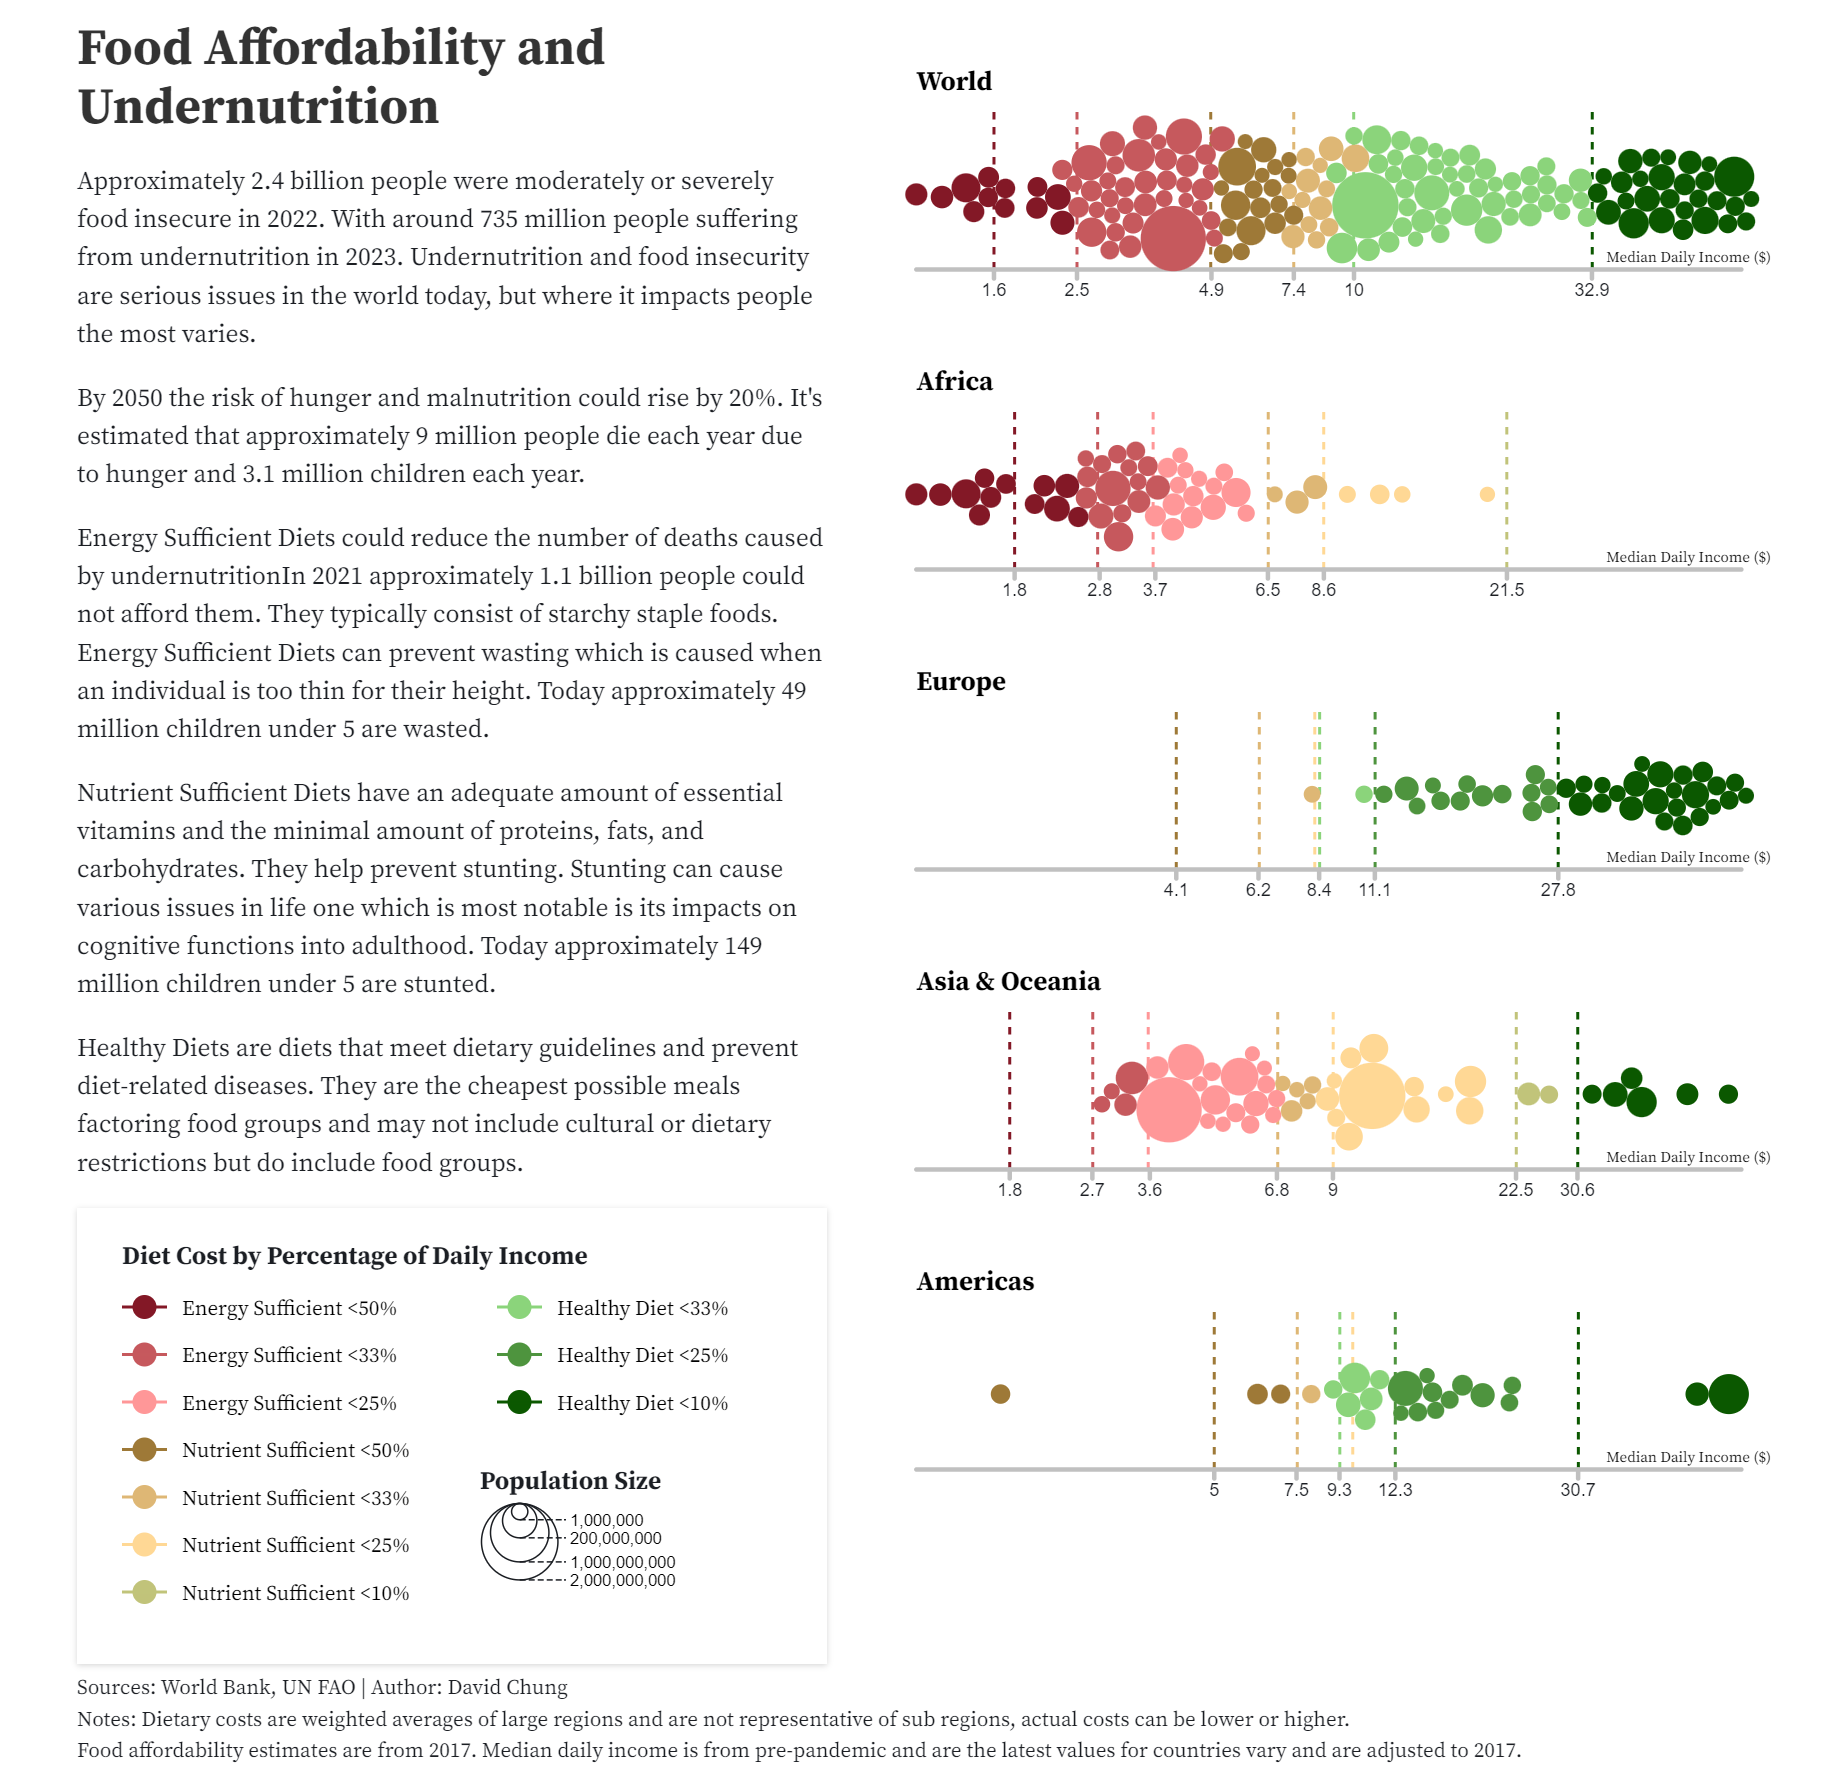
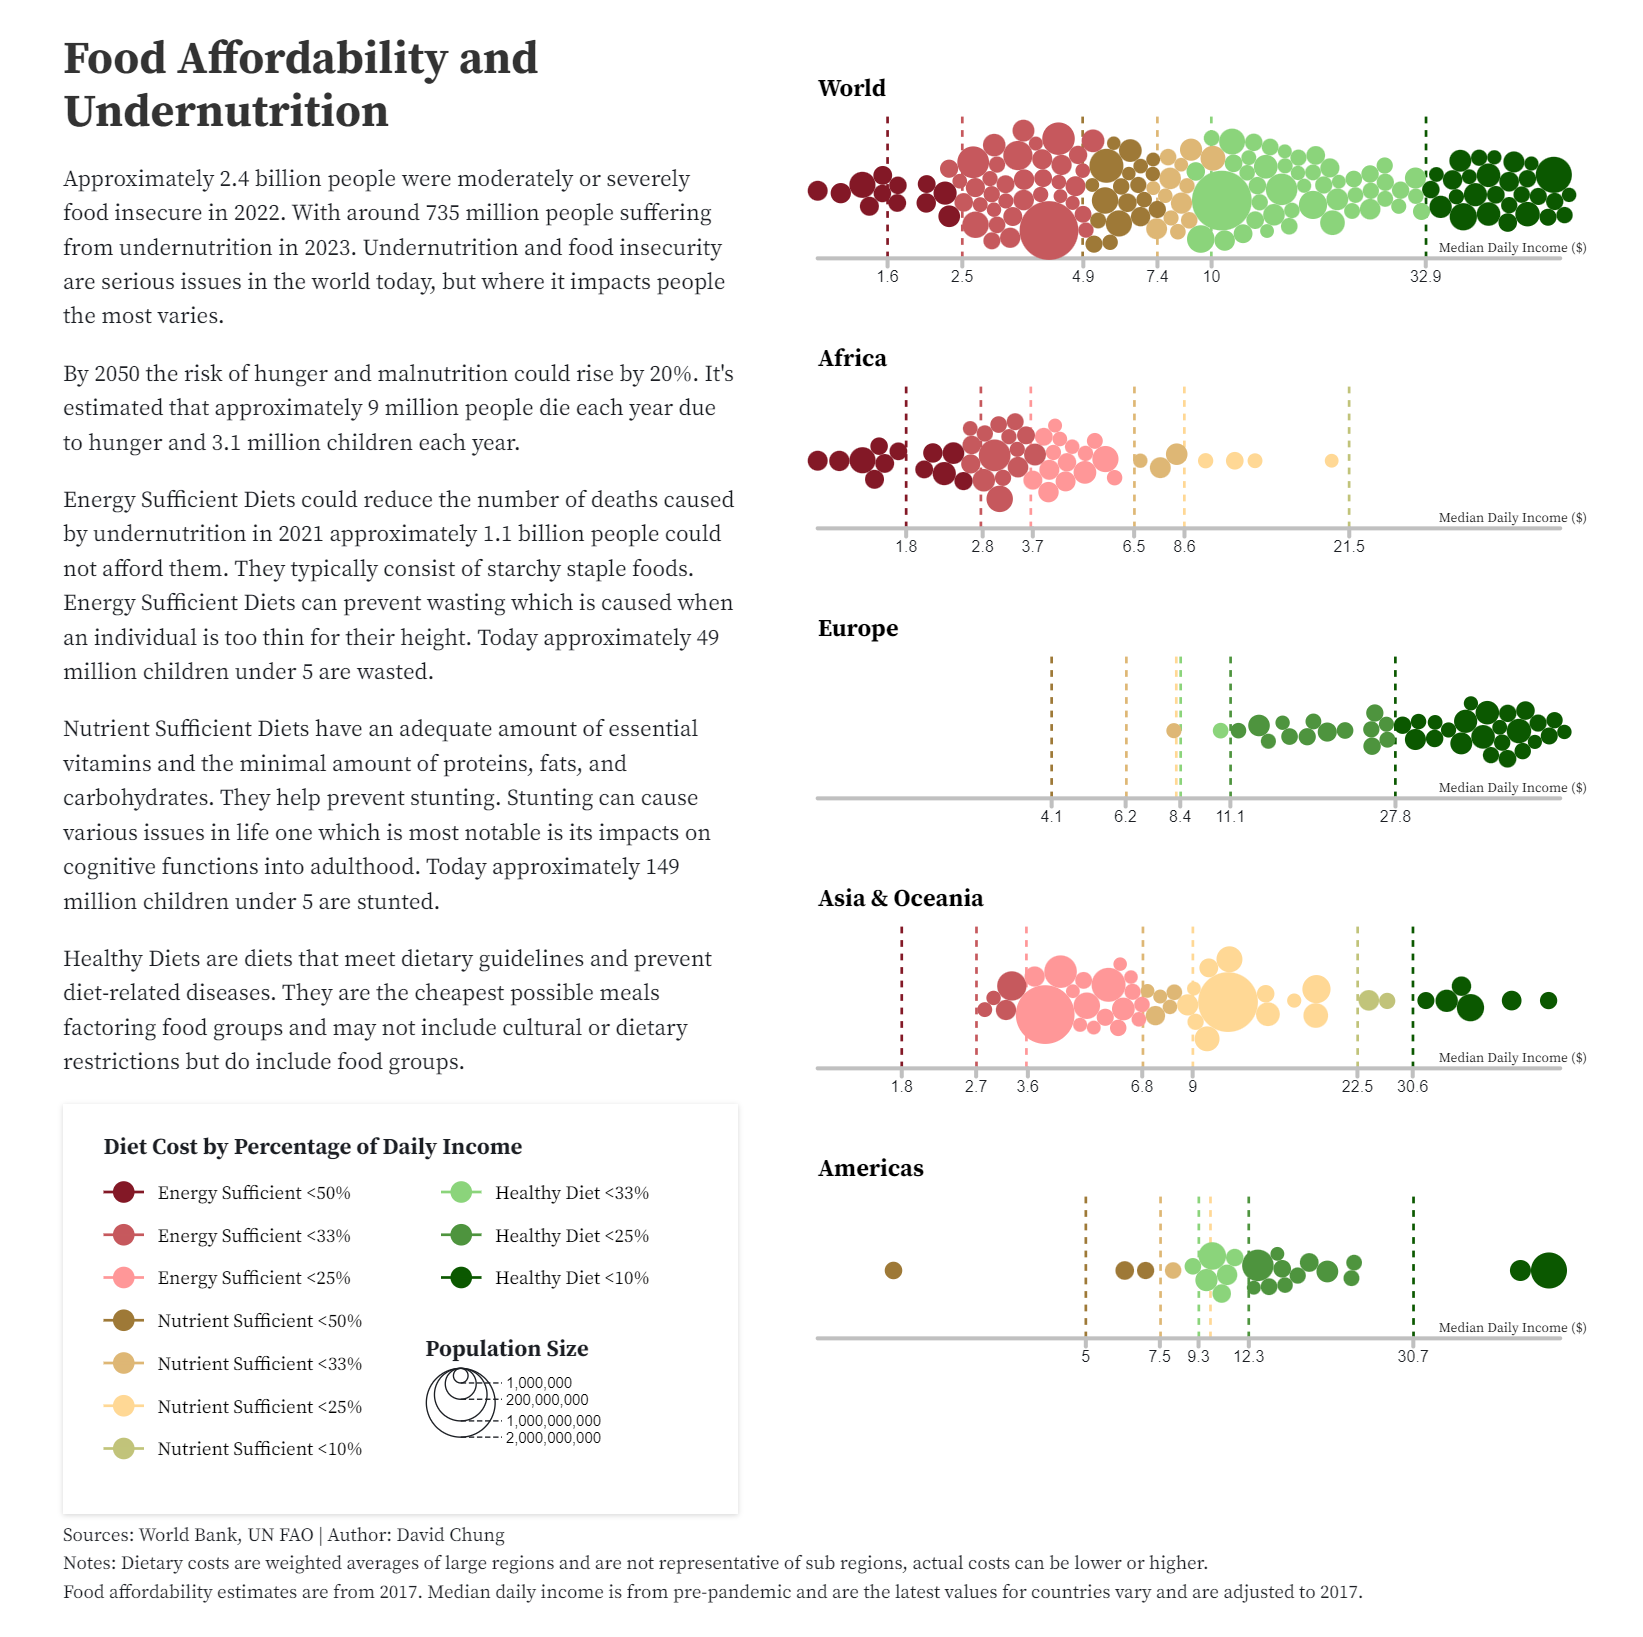
Update Food Affordability
Changed Graphics and CSS

diff --git a/css/tailwind.css b/css/tailwind.css
@@ -59,14 +59,20 @@ input:-webkit-autofill:focus {
   vertical-align: middle;
 }
 
+body {
+  font-family: system-ui, sans-serif !important;
+}
+
 
 .chart {
   background-color: white;
-} 
-
-.chart {
   color: black;
-  padding: 0 10px  0 10px;
+  padding: 10px 10px  10px 10px;
+}
+
+.chart figure {
+  margin-top: 0 !important; 
+  margin-bottom: 0 !important;
 }
 
 .chart h2 {
@@ -76,7 +82,12 @@ input:-webkit-autofill:focus {
 
 .chart h3 {
   color: black !important;
+  font-weight: 400;
   font-size: 16px;
+}
+
+.chart .box-plot-chart {
+  padding: 0px 10px  0px 10px;
 }
 
 .plot-d6a7b5-swatches {
@@ -90,7 +101,7 @@ input:-webkit-autofill:focus {
 }
 
 .box-plot-chart .plot-d6a7b5-figure {
-  margin-top: -1.25em;
+  margin-top: -1.25em !important; 
 }
 
 .dot-chart svg {
